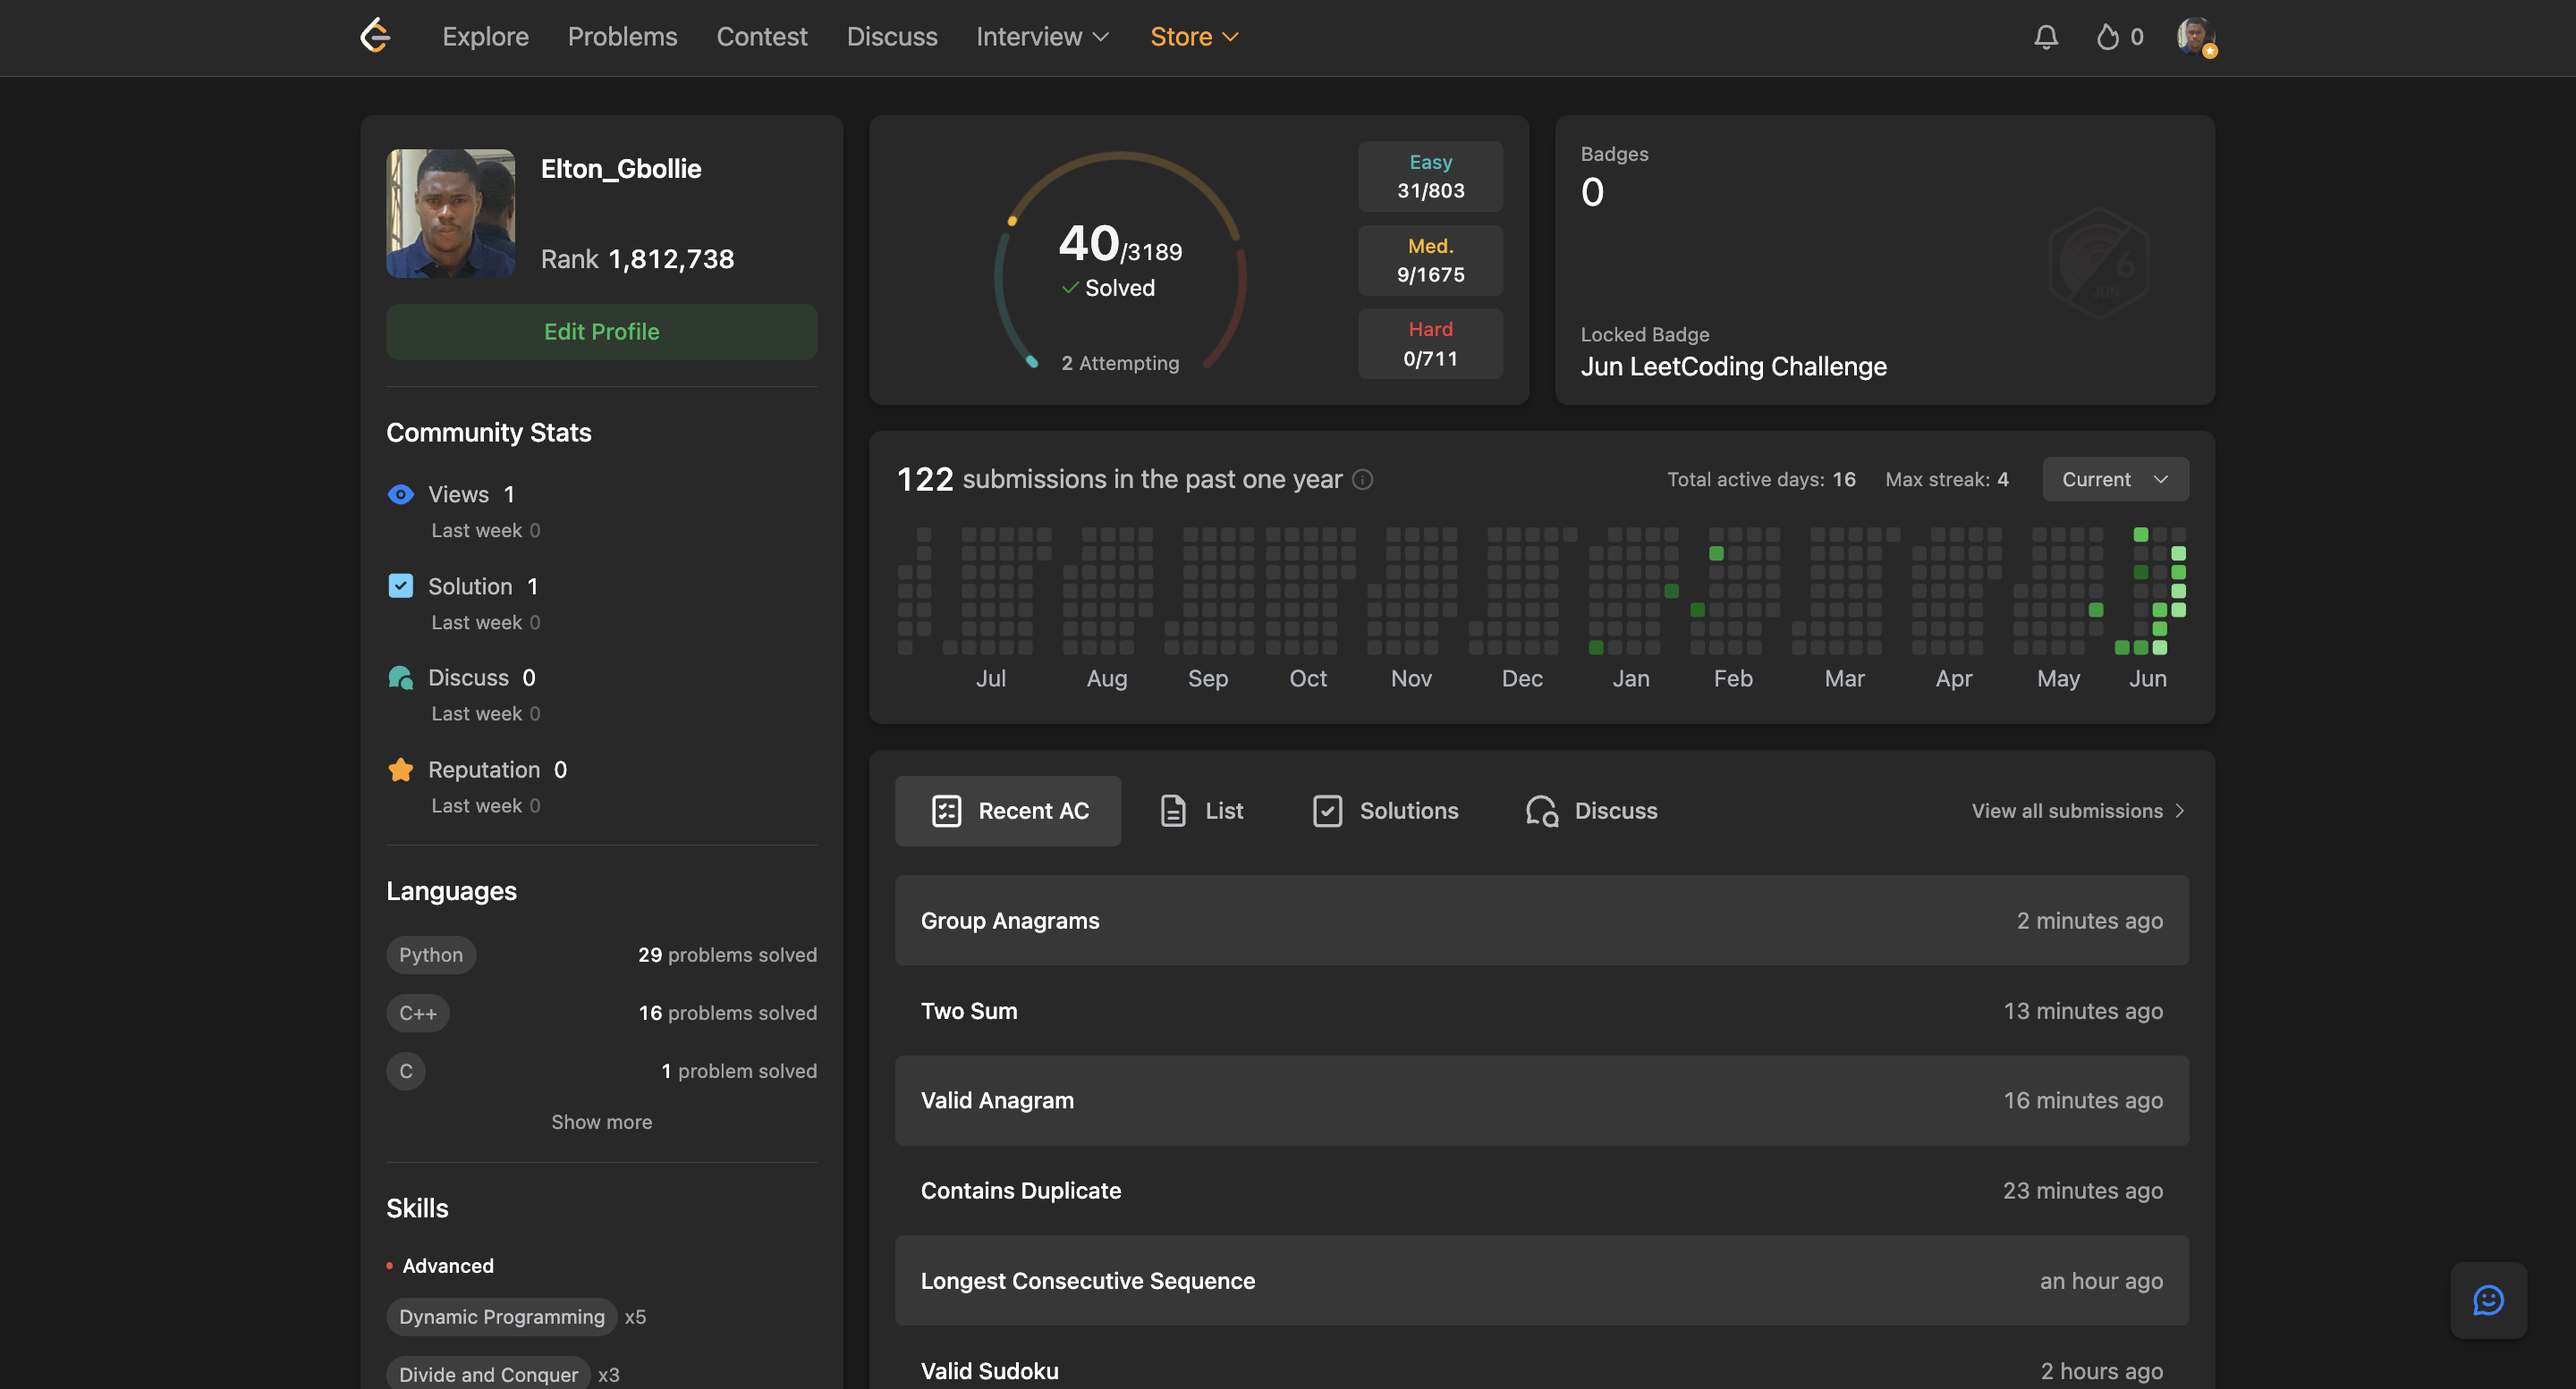
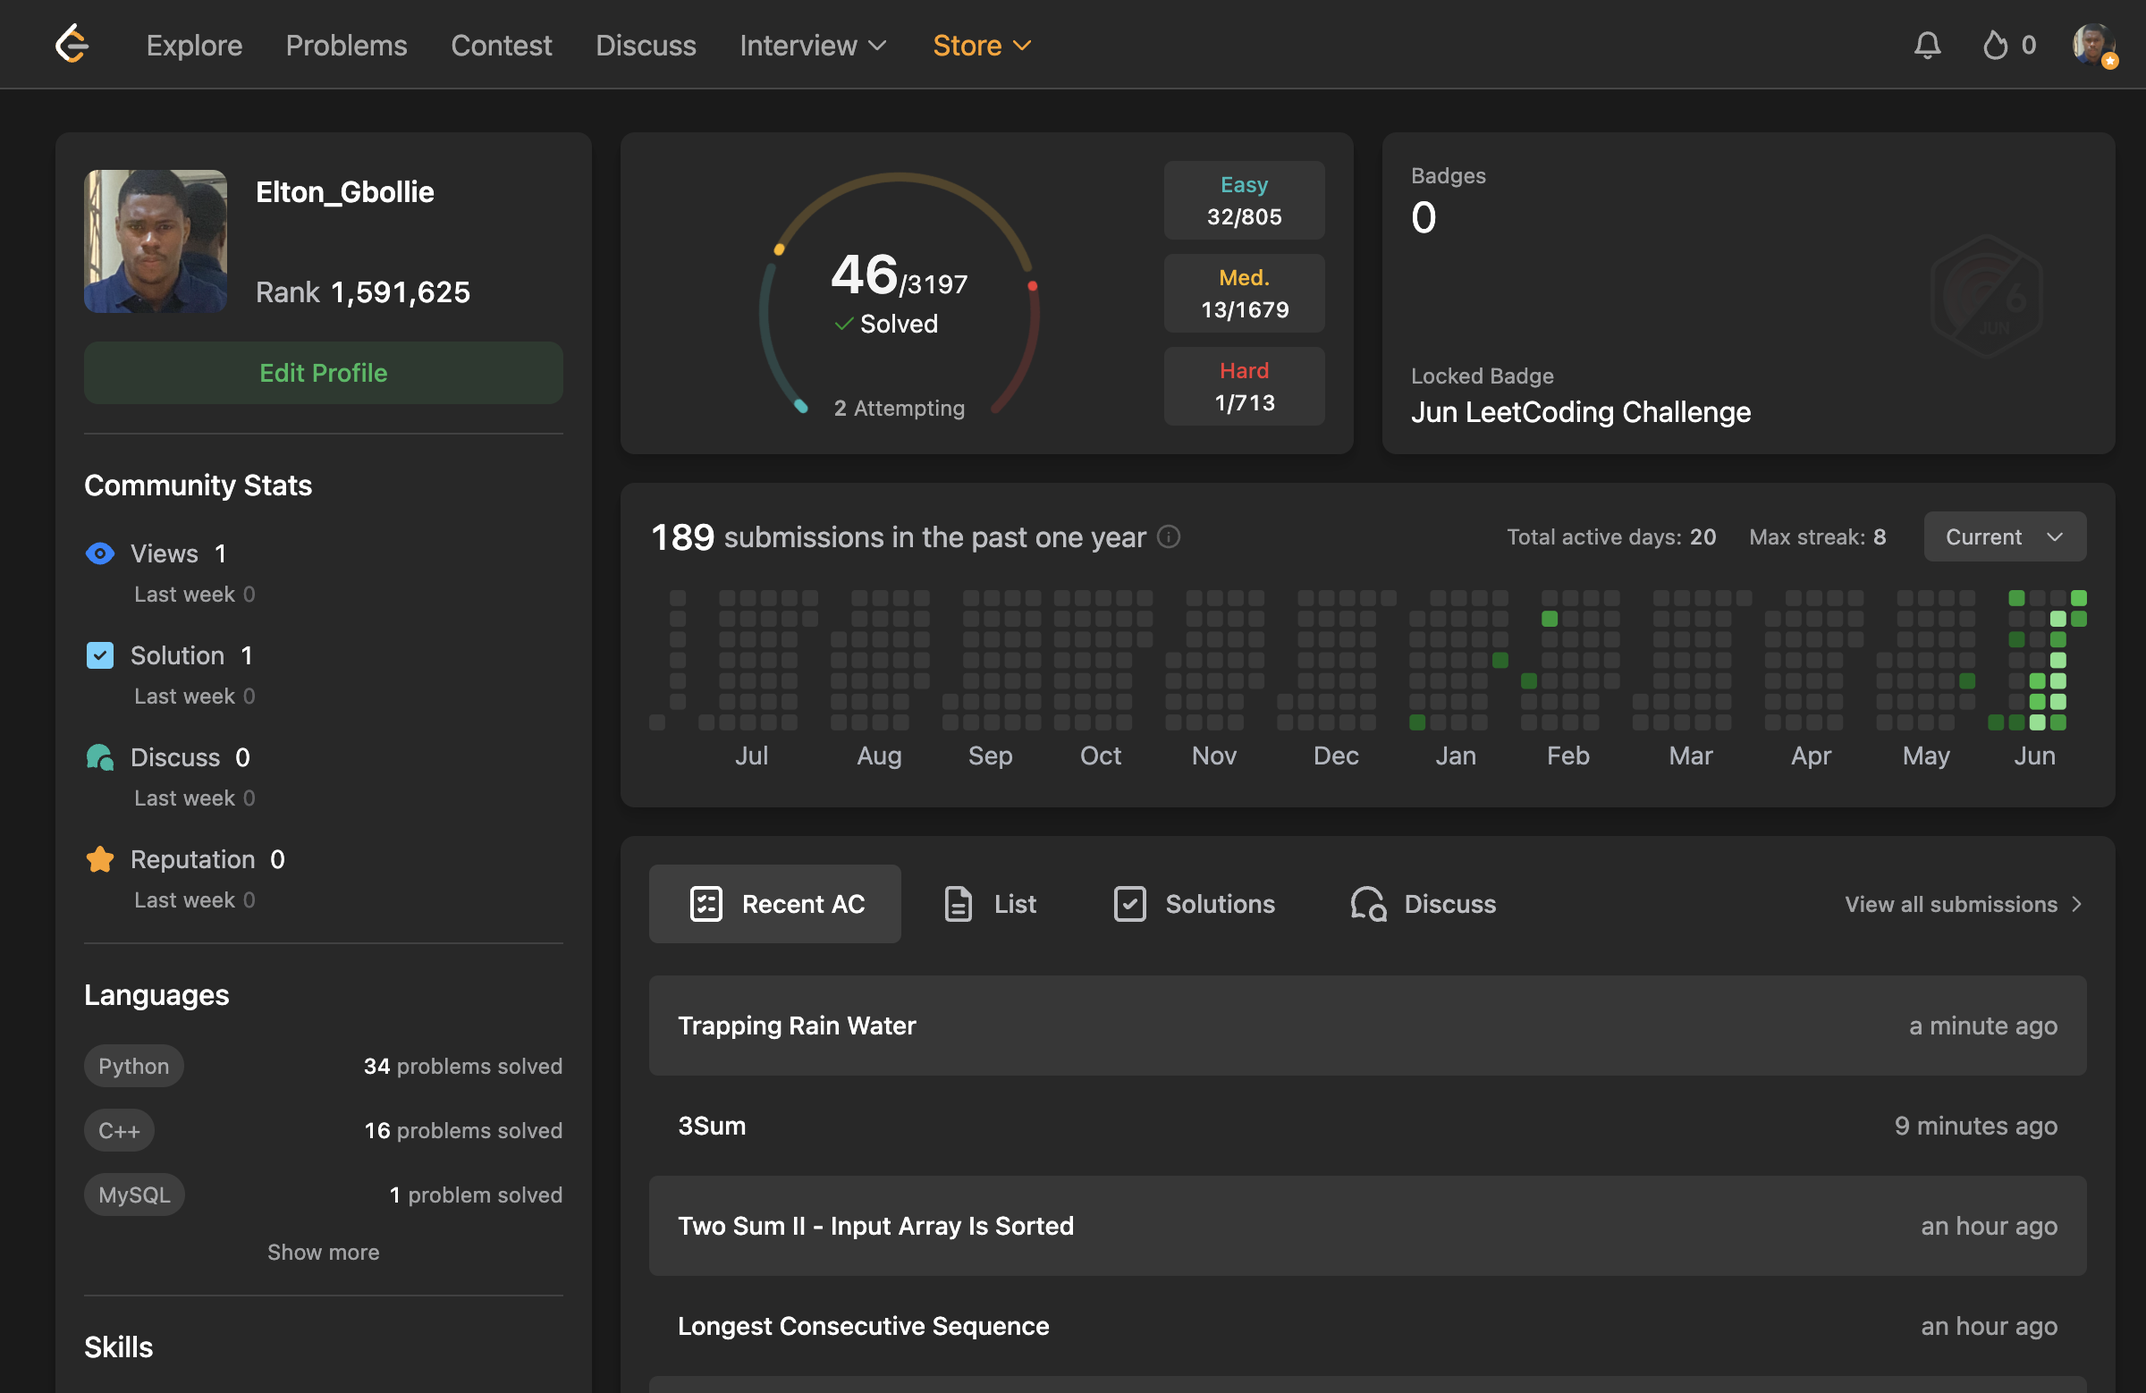
Adding Two Pointers Soltions

diff --git a/Two Pointers/3Sum/solution.py b/Two Pointers/3Sum/solution.py
@@ -1,0 +1,26 @@
+class Solution(object):
+    def threeSum(self, nums):
+        """
+        :type nums: List[int]
+        :rtype: List[List[int]]
+        """
+        result = []
+        nums.sort()
+
+        for i, num in enumerate(nums):
+            if i > 0 and num == nums[i-1]:
+                continue
+            
+            left, right = i+1, len(nums) - 1
+            while left < right:
+                threeSum = num + nums[left] + nums[right]
+                if threeSum < 0:
+                    left += 1
+                elif threeSum > 0:
+                    right -= 1
+                else:
+                    result.append([num, nums[left], nums[right]])
+                    left += 1
+                    while nums[left] == nums[left - 1] and left < right:
+                        left += 1
+        return result

diff --git a/Two Pointers/Trapping Rain Water/solution.py b/Two Pointers/Trapping Rain Water/solution.py
@@ -1,0 +1,22 @@
+class Solution(object):
+    def trap(self, height):
+        """
+        :type height: List[int]
+        :rtype: int
+        """
+        if not height:
+            return 0
+
+        l, r = 0, len(height) - 1
+        leftMax, rightMax = height[l], height[r]
+        res = 0
+        while l < r:
+            if leftMax < rightMax:
+                l += 1
+                leftMax = max(leftMax, height[l])
+                res += leftMax - height[l]
+            else:
+                r -= 1
+                rightMax = max(rightMax, height[r])
+                res += rightMax - height[r]
+        return res

diff --git a/Two Pointers/Valid Palindrome/solution.py b/Two Pointers/Valid Palindrome/solution.py
@@ -1,0 +1,18 @@
+class Solution(object):
+    def isPalindrome(self, s):
+        """
+        :type s: str
+        :rtype: bool
+        """
+        left, right = 0, len(s) - 1
+
+        while left < right:
+            while left < right and not s[left].isalnum():
+                left += 1
+            while left < right and not s[right].isalnum():
+                right -= 1
+            if s[left].lower() != s[right].lower():
+                return False
+            left += 1
+            right -= 1
+        return True

diff --git a/Two Pointers/Two Sum II Input Array Is Sorted/solution.py b/Two Pointers/Two Sum II Input Array Is Sorted/solution.py
@@ -1,0 +1,17 @@
+class Solution(object):
+    def twoSum(self, numbers, target):
+        """
+        :type numbers: List[int]
+        :type target: int
+        :rtype: List[int]
+        """
+        left, right = 0, len(numbers) - 1
+
+        while left < right:
+            currSum = numbers[left] + numbers[right]
+            if currSum < target:
+                left += 1
+            elif currSum > target:
+                right -= 1
+            else:
+                return [left + 1, right + 1]

diff --git a/Two Pointers/Container With Most Water/solution.py b/Two Pointers/Container With Most Water/solution.py
@@ -1,0 +1,19 @@
+class Solution(object):
+    def maxArea(self, height):
+        """
+        :type height: List[int]
+        :rtype: int
+        """
+        result = 0
+        left, right = 0, len(height) -1
+
+        while left < right:
+            area = (right - left) * min(height[left], height[right])
+            result = max(result, area)
+
+            if height[left] < height[right]:
+                left += 1
+            else:
+                right -= 1
+        return result 
+        
